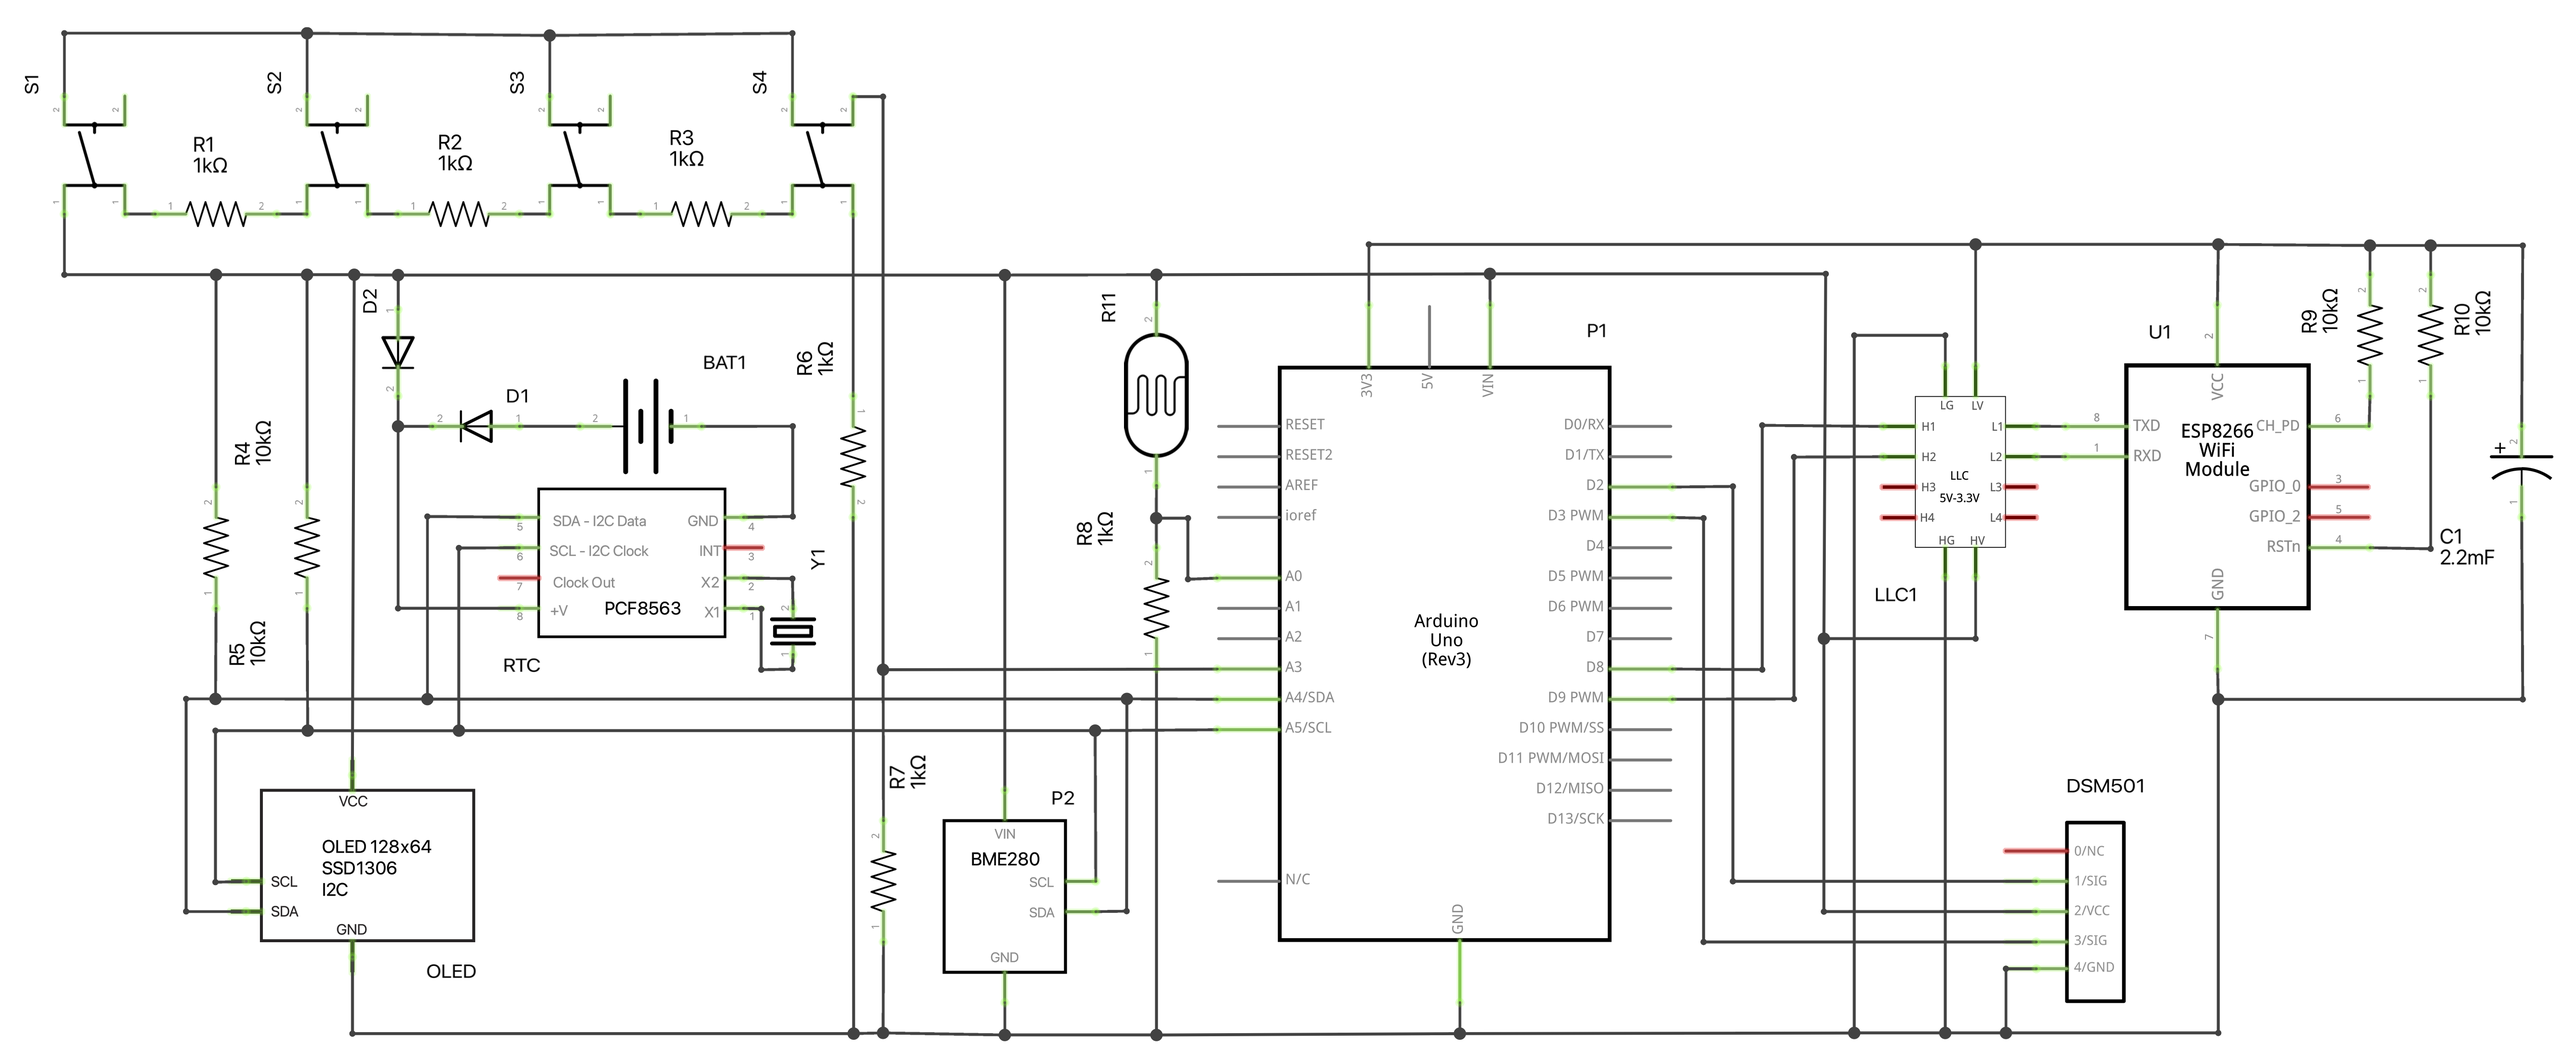
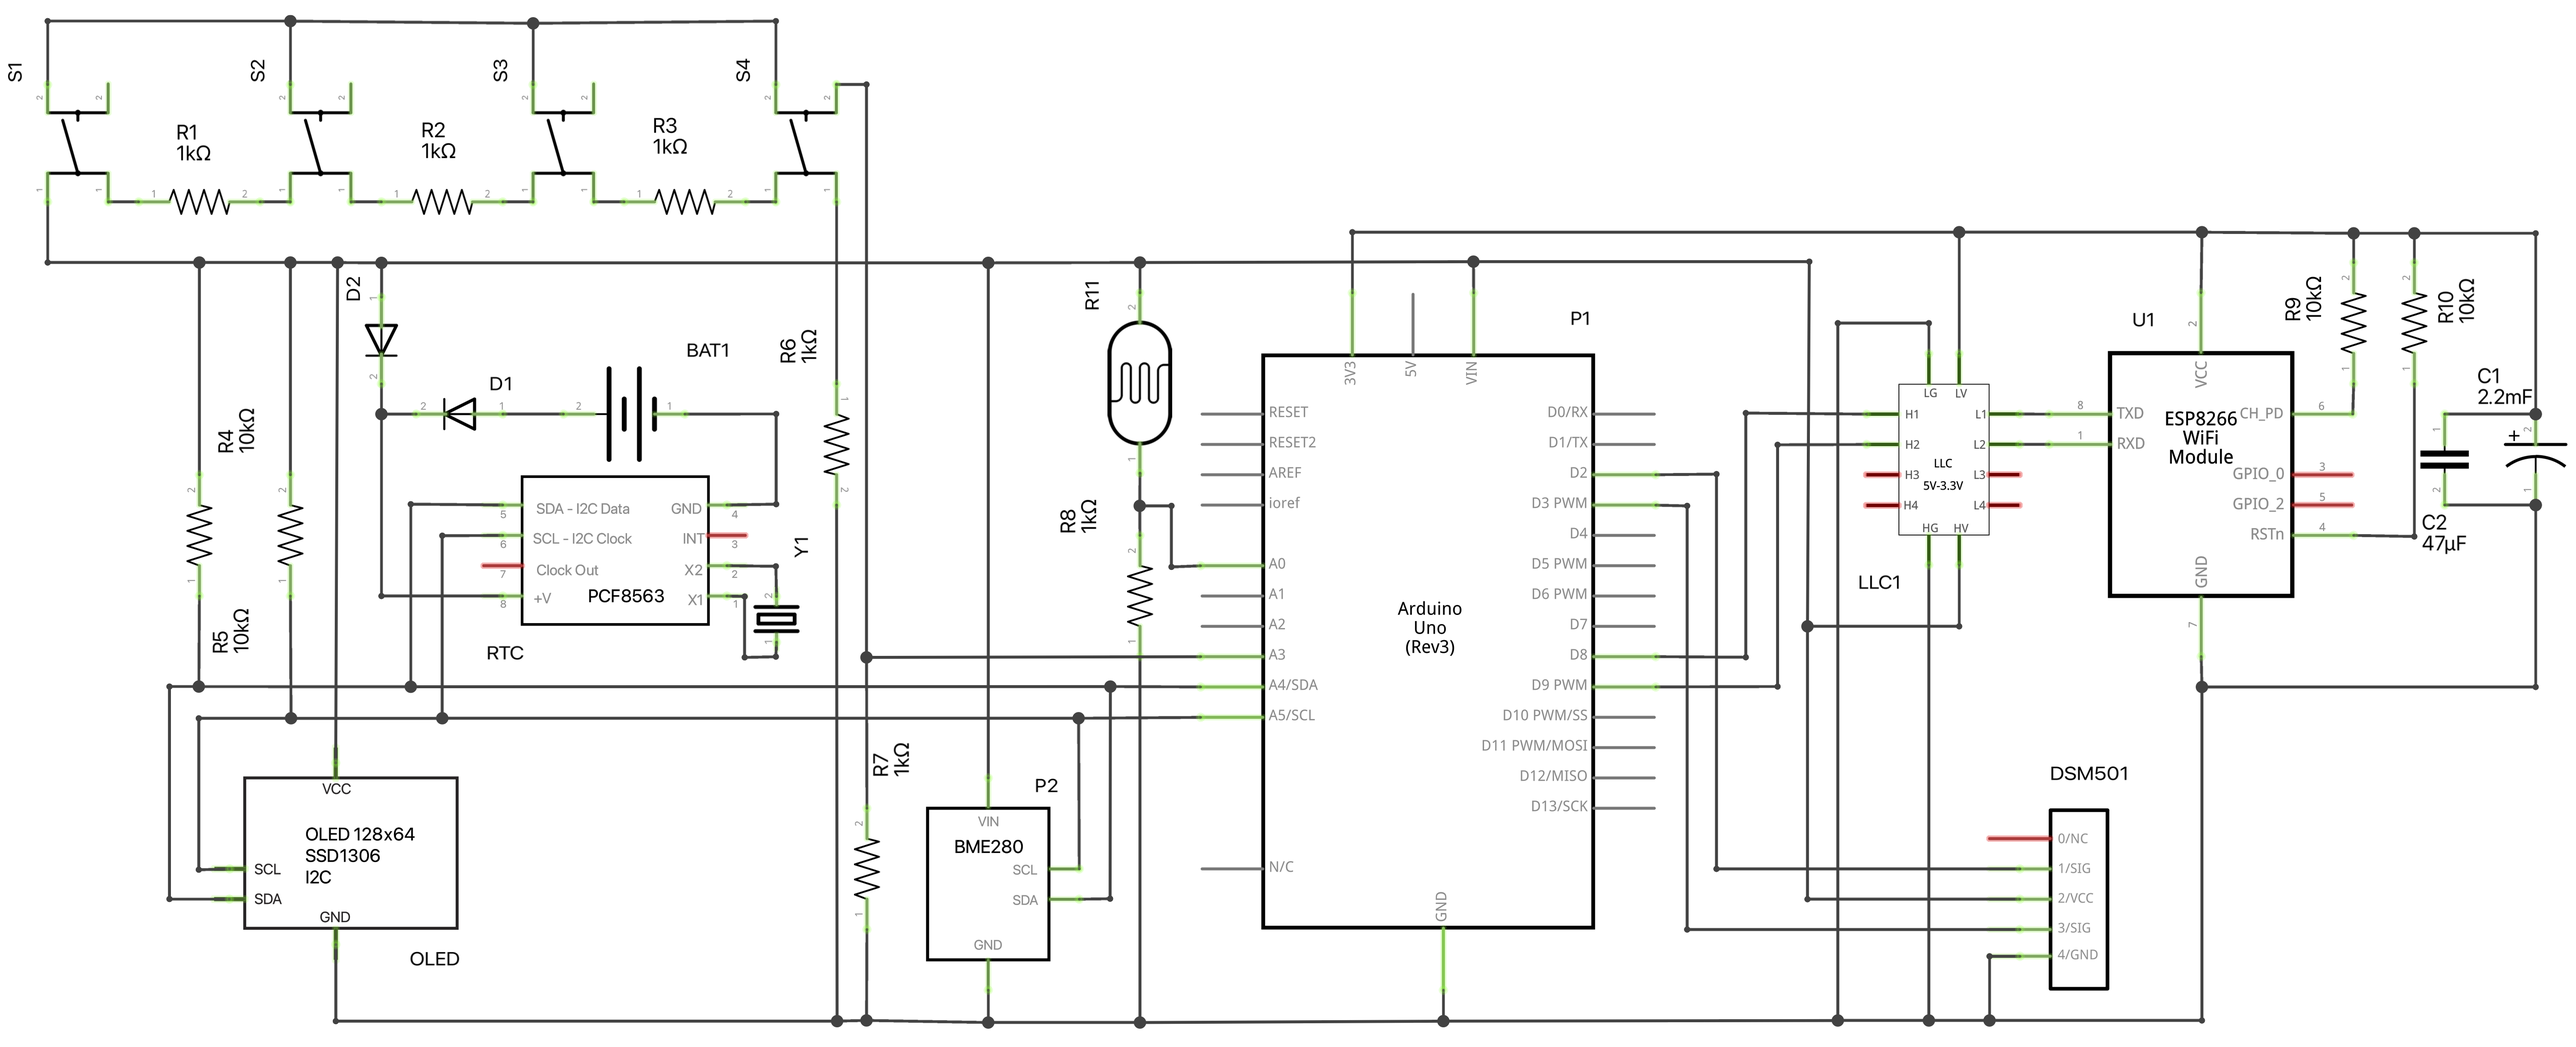
Added 47uF capacitor for power stability and clarified 5V expected on Vin

diff --git a/SensorPod/README.md b/SensorPod/README.md
@@ -24,6 +24,7 @@ label|part
 -----|----
 |BAT1|coin cell battery|
 |C1|2.2mF electrolytic capacitor|
+|C2|47uF ceramic capacitor|
 |D1|diode|
 |D2|diode|
 |DSM501|DSM501|
@@ -98,10 +99,11 @@ CREATE TABLE `readings` (
 
 ## Notes
 
-1. `SSID` and `WiFi` password are configured in the `ESP8622` `C++` code.
-2. Update the `hostname` in `post_handler` to your location of `SensorPod.php` in the `Uno` `C++` code.
-3. Set the `ZIP` code in `relayUVIdx` to your location in the `ESP8622` `C++` code.
-4. The `SHA-1` `fingerprint` for the [National Weather Service](https://www.weatheer.gov) in `relayWeatherFC` needs regular updating in the `ESP8622` `C++` code.
+1. Vin is assumed to be at 5V, otherwise use the 5V power pin directly.
+2. `SSID` and `WiFi` password are configured in the `ESP8622` `C++` code.
+3. Update the `hostname` in `post_handler` to your location of `SensorPod.php` in the `Uno` `C++` code.
+4. Set the `ZIP` code in `relayUVIdx` to your location in the `ESP8622` `C++` code.
+5. The `SHA-1` `fingerprint` for the [National Weather Service](https://www.weatheer.gov) in `relayWeatherFC` needs regular updating in the `ESP8622` `C++` code.
 
 ## BSD-3 License
 
